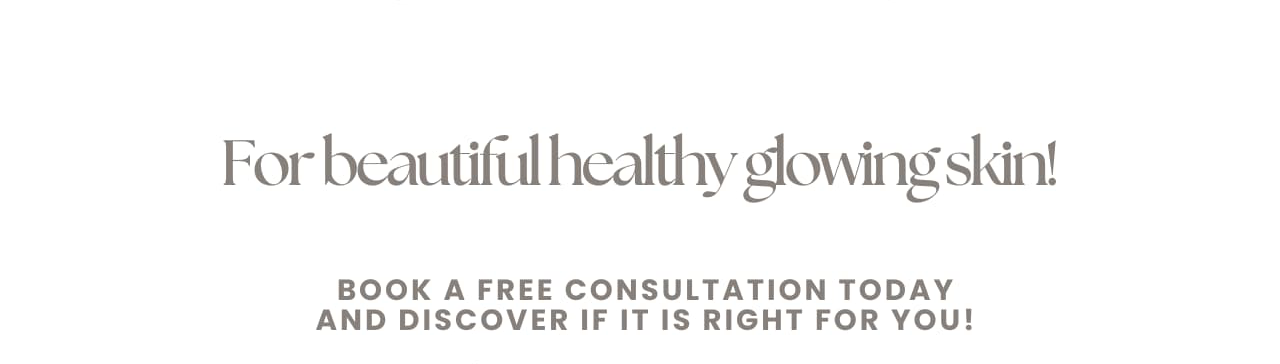
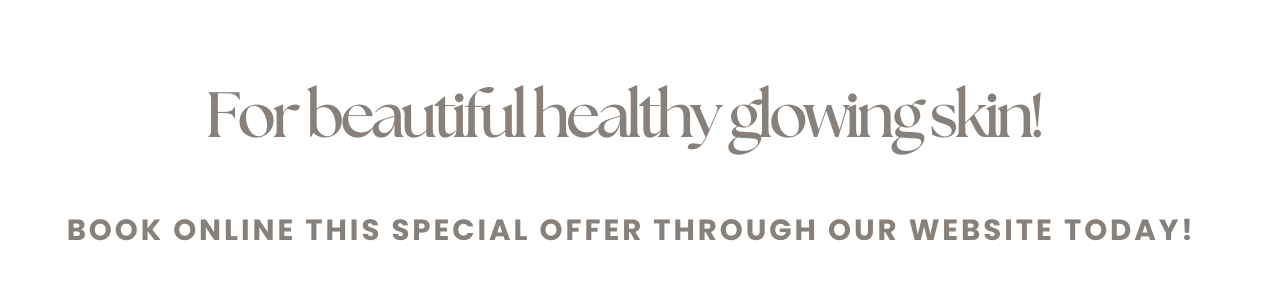
Added promotion September 11

Changed region(s): [[0.1562, 0.2765, 0.8438, 0.5529], [0.0312, 0.7372, 0.9375, 0.9215]]

diff --git a/app/promotions/page.tsx b/app/promotions/page.tsx
@@ -53,14 +53,14 @@ export default function PromotionsPage() {
     }, {scope: container})
 
     return (
-        <div className="flex flex-col md:w-[800px] w-[90vw] mx-auto relative z-20">
+        <div className="flex flex-col md:w-[800px] w-screen mx-auto relative z-20">
             <div>
                 <h1 className="uppercase garet text-center md:text-6xl text-5xl md:py-8 pt-28 pb-4">promotions</h1>
             </div>
-            <div className="w-full flex flex-col text-center gap-4 h-[400px] items-center justify-center">
+{/*             <div className="w-full flex flex-col text-center gap-4 h-[400px] items-center justify-center">
                 <p>There's nothing to see here right now...</p>
                 <p>We'll be back with new promotions soon!</p>
-            </div>
+            </div> */}
   {/*           <div ref={container} className="flex flex-col gap-16 ">
                  <Image src={'/assets/images/promotions/promo-1.png'} width={1280} height={1600} alt="" className="md:w-4/6 mx-auto image__one" />
                  <p className="text__one arimo-bold text-nav text-center text-xl italic md:w-5/6 mx-auto">This May, we celebrate four years of skin transformation, holistic beauty, and soulful rituals — all thanks to you.</p>
@@ -84,31 +84,44 @@ export default function PromotionsPage() {
                     </div>
                  </div>
             </div> */}
-{/*             <Image src={'/assets/images/promotions/0.png'} width={1280} height={1172} alt="" />
-            <Image src={'/assets/images/promotions/1.png'} width={1280} height={837} alt="" />
-            <Image src={'/assets/images/promotions/2.png'} width={1280} height={1192} alt="" />
-            <Image src={'/assets/images/promotions/3.png'} width={1280} height={364} alt="" />
-            <div className="flex justify-center items-center h-32">
-                <Link href={'https://wa.link/n3wz5p'} target="_blank" className="flex gap-4 bg-[#383838] arimo-bold tracking-widest shadow-lg px-12 py-3 rounded-3xl text-[#FFFFFF] hover:scale-105 duration-500 hover:underline">
-                    <svg className="w-6" viewBox="0 0 24 24" fill="none" xmlns="http://www.w3.org/2000/svg"><g fill="#FFF"><path d="M6.014 8.00613c.11427-.90373 1.28877-2.13199 2.22088-1.9957l-.00149-.00149c.90712.17238 1.6252 1.73367 2.03011 2.43571.2869.50937.1006 1.02545-.167 1.24322-.361.29096-.92551.69243-.80707 1.09553C9.5 11.5 12 14 13.2296 14.7107c.4654.269.8029-.4405 1.0911-.804.2094-.2796.7259-.4467 1.2341-.1707.759.442 1.474.9557 2.1352 1.534.3302.276.4077.6839.1789 1.115-.403.7593-1.5686 1.7606-2.4147 1.5571C13.9764 17.5868 8 15.27 6.08033 8.55801c-.10796-.31753-.08078-.43757-.06633-.55188Z"/><path fill-rule="evenodd" clip-rule="evenodd" d="M12 23c-1.2236 0-1.9006-.1313-3-.5l-2.10557 1.0528C5.56462 24.2177 4 23.2507 4 21.7639V19.5c-2.15345-2.008-3-4.3233-3-7.5C1 5.92487 5.92487 1 12 1c6.0751 0 11 4.92487 11 11 0 6.0751-4.9249 11-11 11Zm-6-4.3697-.63605-.5931C3.69087 16.4772 3 14.7331 3 12c0-4.97056 4.02944-9 9-9 4.9706 0 9 4.02944 9 9 0 4.9706-4.0294 9-9 9-.9857 0-1.448-.089-2.36405-.3962l-.78748-.2641L6 21.7639v-3.1336Z"/></g></svg>
-                    0450409553
-                </Link>
-            </div>
-            <Image src={'/assets/images/promotions/4.png'} width={1280} height={954} alt="" />
-            <div className="flex flex-col gap-8 justify-center items-center h-48">
-                <h2 className="uppercase md:text-3xl text-xl text-center text-nav arimo-bold tracking-wider">Book a FREE Consultation Today!</h2>
-                <div className="flex md:gap-8 gap-4">
-                    <Link href={'https://www.fresha.com/es/a/the-c-therapy-melbourne-k3-high-street-b0pgn0xk/booking?allOffer=true&menu=true&offerItems=p%3A1591031'} target='_blank'className="flex md:gap-4 gap-2 bg-[#383838] arimo-bold md:tracking-widest shadow-lg md:px-12 px-4 py-3 rounded-3xl text-[#FFFFFF] hover:scale-105 duration-500 hover:underline">
-                        <svg className="w-6" viewBox="0 0 24 24" fill="none" xmlns="http://www.w3.org/2000/svg"><path d="M9 3.5V2M5.06066 5.06066 4 4m1.06066 9L4 14.0607m9-9.00004L14.0607 4M3.5 9H2m6.5-.5 4.1111 12.7778L15.5 18.3889 19.1111 22 22 19.1111 18.3889 15.5l2.8889-2.8889L8.5 8.5Z" stroke="#FFF" stroke-width="2" stroke-linecap="round" stroke-linejoin="round"/></svg>
-                        BOOK ONLINE
-                    </Link>
-                    <Link href={'https://wa.link/n3wz5p'} target="_blank" className="md:flex hidden md:gap-4 gap-2 bg-[#383838] arimo-bold md:tracking-widest shadow-lg md:px-12 px-4 py-3 rounded-3xl text-[#FFFFFF] hover:scale-105 duration-500 hover:underline">
-                        <svg className="w-6" viewBox="0 0 24 24" fill="none" xmlns="http://www.w3.org/2000/svg"><g fill="#FFF"><path d="M6.014 8.00613c.11427-.90373 1.28877-2.13199 2.22088-1.9957l-.00149-.00149c.90712.17238 1.6252 1.73367 2.03011 2.43571.2869.50937.1006 1.02545-.167 1.24322-.361.29096-.92551.69243-.80707 1.09553C9.5 11.5 12 14 13.2296 14.7107c.4654.269.8029-.4405 1.0911-.804.2094-.2796.7259-.4467 1.2341-.1707.759.442 1.474.9557 2.1352 1.534.3302.276.4077.6839.1789 1.115-.403.7593-1.5686 1.7606-2.4147 1.5571C13.9764 17.5868 8 15.27 6.08033 8.55801c-.10796-.31753-.08078-.43757-.06633-.55188Z"/><path fill-rule="evenodd" clip-rule="evenodd" d="M12 23c-1.2236 0-1.9006-.1313-3-.5l-2.10557 1.0528C5.56462 24.2177 4 23.2507 4 21.7639V19.5c-2.15345-2.008-3-4.3233-3-7.5C1 5.92487 5.92487 1 12 1c6.0751 0 11 4.92487 11 11 0 6.0751-4.9249 11-11 11Zm-6-4.3697-.63605-.5931C3.69087 16.4772 3 14.7331 3 12c0-4.97056 4.02944-9 9-9 4.9706 0 9 4.02944 9 9 0 4.9706-4.0294 9-9 9-.9857 0-1.448-.089-2.36405-.3962l-.78748-.2641L6 21.7639v-3.1336Z"/></g></svg>
-                        0450409553
+            <div className="md:flex flex-col hidden">
+                <Image src={'/assets/images/promotions/0.png'} width={1280} height={1172} alt="" />
+                <Image src={'/assets/images/promotions/1.png'} width={1280} height={837} alt="" />
+                <Image src={'/assets/images/promotions/2.png'} width={1280} height={1192} alt="" />
+                <Image src={'/assets/images/promotions/3.png'} width={1280} height={364} alt="" />
+                <div className="flex justify-center items-center h-20 mb-12">
+                    <Link href={'https://www.fresha.com/es/a/the-c-therapy-melbourne-k3-high-street-b0pgn0xk/booking?menu=true&offerItems=p%3A1669320&pId=474146&dppub=true&employeeId=1482022&cartId=f5a05f29-fde0-48a4-bb8c-88a69ffb1600'} target='_blank'className="flex md:gap-4 gap-2 bg-[#383838] arimo-bold md:tracking-widest shadow-lg md:px-12 px-4 py-3 rounded-3xl text-[#FFFFFF] hover:scale-105 duration-500 hover:underline">
+                            <svg className="w-6" viewBox="0 0 24 24" fill="none" xmlns="http://www.w3.org/2000/svg"><path d="M9 3.5V2M5.06066 5.06066 4 4m1.06066 9L4 14.0607m9-9.00004L14.0607 4M3.5 9H2m6.5-.5 4.1111 12.7778L15.5 18.3889 19.1111 22 22 19.1111 18.3889 15.5l2.8889-2.8889L8.5 8.5Z" stroke="#FFF" stroke-width="2" stroke-linecap="round" stroke-linejoin="round"/></svg>
+                            BOOK HERE
                     </Link>
                 </div>
+                <Image src={'/assets/images/promotions/4.png'} width={1280} height={954} alt="" />
+                <div className="flex flex-col gap-8 justify-center items-center h-48 my-4">
+                    <h2 className="uppercase md:text-xl text-xl text-center text-nav arimo-bold tracking-wider">Book a free consultation if you think this is right for you, Contact us Today if you have questions!</h2>
+                    <div className="flex md:gap-8 gap-4">
+                        <Link href={'https://www.fresha.com/es/a/the-c-therapy-melbourne-k3-high-street-b0pgn0xk/booking?menu=true&offerItems=p%3A1669320&pId=474146&dppub=true&employeeId=1482022&cartId=f5a05f29-fde0-48a4-bb8c-88a69ffb1600'} target='_blank'className="flex md:gap-4 gap-2 bg-[#383838] arimo-bold md:tracking-widest shadow-lg md:px-12 px-4 py-3 rounded-3xl text-[#FFFFFF] hover:scale-105 duration-500 hover:underline">
+                            <svg className="w-6" viewBox="0 0 24 24" fill="none" xmlns="http://www.w3.org/2000/svg"><path d="M9 3.5V2M5.06066 5.06066 4 4m1.06066 9L4 14.0607m9-9.00004L14.0607 4M3.5 9H2m6.5-.5 4.1111 12.7778L15.5 18.3889 19.1111 22 22 19.1111 18.3889 15.5l2.8889-2.8889L8.5 8.5Z" stroke="#FFF" stroke-width="2" stroke-linecap="round" stroke-linejoin="round"/></svg>
+                            BOOK ONLINE
+                        </Link>
+                        <Link href={'https://wa.link/n3wz5p'} target="_blank" className="md:flex hidden md:gap-4 gap-2 bg-[#383838] arimo-bold md:tracking-widest shadow-lg md:px-12 px-4 py-3 rounded-3xl text-[#FFFFFF] hover:scale-105 duration-500 hover:underline">
+                            <svg className="w-6" viewBox="0 0 24 24" fill="none" xmlns="http://www.w3.org/2000/svg"><g fill="#FFF"><path d="M6.014 8.00613c.11427-.90373 1.28877-2.13199 2.22088-1.9957l-.00149-.00149c.90712.17238 1.6252 1.73367 2.03011 2.43571.2869.50937.1006 1.02545-.167 1.24322-.361.29096-.92551.69243-.80707 1.09553C9.5 11.5 12 14 13.2296 14.7107c.4654.269.8029-.4405 1.0911-.804.2094-.2796.7259-.4467 1.2341-.1707.759.442 1.474.9557 2.1352 1.534.3302.276.4077.6839.1789 1.115-.403.7593-1.5686 1.7606-2.4147 1.5571C13.9764 17.5868 8 15.27 6.08033 8.55801c-.10796-.31753-.08078-.43757-.06633-.55188Z"/><path fill-rule="evenodd" clip-rule="evenodd" d="M12 23c-1.2236 0-1.9006-.1313-3-.5l-2.10557 1.0528C5.56462 24.2177 4 23.2507 4 21.7639V19.5c-2.15345-2.008-3-4.3233-3-7.5C1 5.92487 5.92487 1 12 1c6.0751 0 11 4.92487 11 11 0 6.0751-4.9249 11-11 11Zm-6-4.3697-.63605-.5931C3.69087 16.4772 3 14.7331 3 12c0-4.97056 4.02944-9 9-9 4.9706 0 9 4.02944 9 9 0 4.9706-4.0294 9-9 9-.9857 0-1.448-.089-2.36405-.3962l-.78748-.2641L6 21.7639v-3.1336Z"/></g></svg>
+                            0450409553
+                        </Link>
+                    </div>
+                </div>
+                <Image src={'/assets/images/promotions/5.png'} width={1280} height={274} alt="" />
             </div>
-            <Image src={'/assets/images/promotions/5.png'} width={1280} height={274} alt="" /> */}
+            <div className="flex flex-col md:hidden">
+                <Image src={'/assets/images/promotions/1-mobile.png'} width={1280} height={1172} alt="" />
+                <Image src={'/assets/images/promotions/2-mobile.png'} width={1280} height={1172} alt="" />
+                <div className="flex justify-center items-center h-20 my-4">
+                    <Link href={'https://www.fresha.com/es/a/the-c-therapy-melbourne-k3-high-street-b0pgn0xk/booking?menu=true&offerItems=p%3A1669320&pId=474146&dppub=true&employeeId=1482022&cartId=f5a05f29-fde0-48a4-bb8c-88a69ffb1600'} target='_blank'className="flex md:gap-4 gap-2 bg-[#383838] arimo-bold md:tracking-widest shadow-lg md:px-12 px-8 py-3 rounded-3xl text-[#FFFFFF] hover:scale-105 duration-500 hover:underline">
+                            <svg className="w-6" viewBox="0 0 24 24" fill="none" xmlns="http://www.w3.org/2000/svg"><path d="M9 3.5V2M5.06066 5.06066 4 4m1.06066 9L4 14.0607m9-9.00004L14.0607 4M3.5 9H2m6.5-.5 4.1111 12.7778L15.5 18.3889 19.1111 22 22 19.1111 18.3889 15.5l2.8889-2.8889L8.5 8.5Z" stroke="#FFF" stroke-width="2" stroke-linecap="round" stroke-linejoin="round"/></svg>
+                            BOOK HERE
+                    </Link>
+                </div>
+                <Image src={'/assets/images/promotions/3-mobile.png'} width={1280} height={1172} alt="" />
+            </div>
         </div>
     );
 }

diff --git a/components/commons/MobileMenu.tsx b/components/commons/MobileMenu.tsx
@@ -42,7 +42,7 @@ const MobileMenu = () => {
                 <Link href={'/body/relax'} className='border-b sm:p-2 md:text-xl' onMouseUp={toggleMenu}>
                     Skin & Body Relax
                 </Link>
-                <Link href={'/promotions'} className='border-b sm:p-2 md:text-xl hidden' onMouseUp={toggleMenu}>
+                <Link href={'/promotions'} className='border-b sm:p-2 md:text-xl uppercase' onMouseUp={toggleMenu}>
                     Promotions
                 </Link>
                 <Link href={'https://store.thectherapy.com.au/'} target='_blank' className='border-b sm:p-2 md:text-xl' onMouseUp={toggleMenu}>

diff --git a/components/Header/Nav.tsx b/components/Header/Nav.tsx
@@ -65,7 +65,7 @@ const Nav = () => {
             <Link href={'/contact'} className={`${currentPath === '/contact' ? 'underline' : ''} hover:underline`}>
                 Contact
             </Link>
-            <Link href={'/promotions'} className='hover:underline hidden'>
+            <Link href={'/promotions'} className='hover:underline'>
                 Promotions
             </Link>
             <div className='group/nav-more flex flex-col relative h-full justify-center'>
